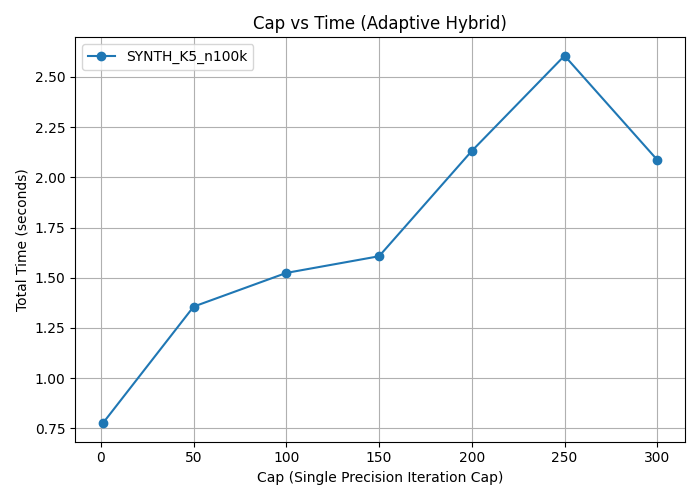
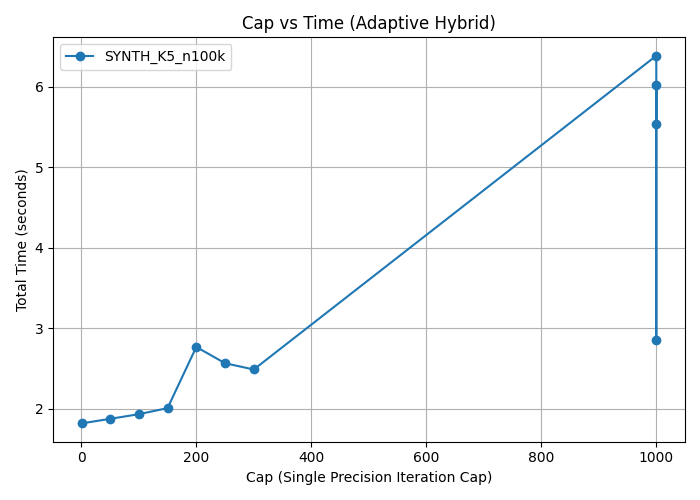
trying to decoupling the two experiments

diff --git a/example.py b/example.py
@@ -248,8 +248,8 @@ def run_adaptive_hybrid(X, initial_centers, n_clusters, max_iter_total, tol_sing
     
     return ( labels_final, centers_final, iters_single, iters_double,total_time, mem_MB_total, ari, dbi, inertia)
     
-def run_one_dataset(ds_name: str, X_full: np.ndarray, y_full):
-    rows = []
+def run_one_dataset(ds_name: str, X_full: np.ndarray, y_full, rows_A, rows_B):
+
     if ds_name.startswith("SYNTH"):
         sample_sizes = dataset_sizes
     else:
@@ -288,10 +288,10 @@ def run_one_dataset(ds_name: str, X_full: np.ndarray, y_full):
                     X_cur, initial_centers, n_clusters, max_iter, tol_fixed_A, y_true_cur
                     )
 
-                    rows.append([ds_name, n_samples, n_clusters, n_features, "A", 0, 1e-16,  iters_single_tot, iters_double_tot,"Double",  elapsed, mem_MB_double, 
+                    rows_A.append([ds_name, n_samples, n_clusters, n_features, "A", 0, 1e-16,  iters_single_tot, iters_double_tot,"Double",  elapsed, mem_MB_double, 
                                         ari,  dbi, inertia])
                                  
-                    print(f" [Double] {rows}", flush=True) 
+                    print(f" [Double] {rows_A}", flush=True) 
 
                 option = "A"
                 for cap in cap_grid:
@@ -304,10 +304,10 @@ def run_one_dataset(ds_name: str, X_full: np.ndarray, y_full):
                         
                         print(f"Cap: {cap}, Iter Single: {iters_single}, Iter Double: {iters_double}, Toal: {iters_single + iters_double}")
                     
-                        rows.append([ds_name, n_samples, n_clusters, n_features, "A", cap, tol_fixed_A, iters_single, iters_double, "AdaptiveHybrid", elapsed_hybrid, mem_MB_hybrid,
+                        rows_A.append([ds_name, n_samples, n_clusters, n_features, "A", cap, tol_fixed_A, iters_single, iters_double, "AdaptiveHybrid", elapsed_hybrid, mem_MB_hybrid,
                                         ari_hybrid, dbi_hybrid, inertia_hybrid ])
                         
-                        print(f" [Hybrid] {rows}", flush=True) 
+                        print(f" [Hybrid] {rows_A}", flush=True) 
                         # plot clusters
                         # if rep == 0:
                         #     X_vis, centers_vis = pca_2d_view(X_cur, centers_hybrid)
@@ -315,37 +315,34 @@ def run_one_dataset(ds_name: str, X_full: np.ndarray, y_full):
                         #     title = (f"{ds_name}: n={n_samples}, k={n_clusters}, "f"cap={cap}")
                         #     plot_clusters(X_vis, labels_hybrid, centers_vis, title=title, filename=filename)
                     
-                    
+
 
                     # Full double precision baseline for Experiment B
-                    for rep in range(n_repeats):
-                            centers_double, labels_double, iters_double_tot, iters_single_tot, elapsed, mem_MB_double, ari, dbi, inertia = run_full_double(
+                for rep in range(n_repeats):
+                        centers_double, labels_double, iters_double_tot, iters_single_tot, elapsed, mem_MB_double, ari, dbi, inertia = run_full_double(
                             X_cur, initial_centers, n_clusters, max_iter_B, tol_double_B, y_true_cur
                             )
 
-                        rows.append([ ds_name, n_samples, n_clusters, n_features, "B", 0, tol_double_B,  iters_single_tot, iters_double_tot, "Double", elapsed, mem_MB_double,
-                        ari, dbi, inertia])
+                        rows_B.append([ ds_name, n_samples, n_clusters, n_features, "B", 0, tol_double_B,  iters_single_tot, iters_double_tot, "Double", elapsed, mem_MB_double,
+                                        ari, dbi, inertia])
                         print(f"[Double Baseline - Exp B] tol={tol_double_B} | iter_double={iters_double_tot}")
 
-
-
-
-                    option = "B"
-                    for tol_s in tol_single_grid:
-                        for rep in range(n_repeats):
+                option = "B"
+                for tol_s in tol_single_grid:
+                    for rep in range(n_repeats):
            
                             # Adaptive hybrid run
                             labels_hybrid, centers_hybrid, iters_single, iters_double, elapsed_hybrid, mem_MB_hybrid, ari_hybrid, dbi_hybrid, inertia_hybrid = run_adaptive_hybrid(
-                                X_cur, initial_centers, n_clusters, max_iter_total=max_iter_B, tol_single = tol_s, tol_double = tol_double_B, y_true= y_true_cur, seed = rep
+                                X_cur, initial_centers, n_clusters, max_iter_total=max_iter_B, tol_single = tol_s, tol_double = tol_double_B, single_iter_cap=max_iter_B, y_true= y_true_cur, seed = rep
                             )
 
                             print(f"Tol_single: {tol_s}, Iter Single: {iters_single}, Iter Double: {iters_double}, Total: {iters_single + iters_double}")
                            
 
-                            rows.append([ds_name, n_samples, n_clusters, n_features, "B", tol_s,  iters_single, iters_double, "AdaptiveHybrid",elapsed_hybrid, mem_MB_hybrid,
+                            rows_B.append([ds_name, n_samples, n_clusters, n_features, "B", max_iter_B, tol_s,  iters_single, iters_double, "AdaptiveHybrid", elapsed_hybrid, mem_MB_hybrid,
                                         ari_hybrid, dbi_hybrid, inertia_hybrid])
                             
-                            print(f" [Hybrid] {rows}", flush=True) 
+                            print(f" [Hybrid] {rows_B}", flush=True) 
 
                             # plot clusters
                             # if rep == 0:
@@ -353,7 +350,7 @@ def run_one_dataset(ds_name: str, X_full: np.ndarray, y_full):
                                 # filename = (f"{ds_name}_n{n_samples}_k{n_clusters}_B_tol{tol_s:g}")
                                 # title = (f"{ds_name}: n={n_samples}, k={n_clusters},  tol={tol_s:g}")
                                 # plot_clusters(X_vis, labels_hybrid, centers_vis, title=title, filename=filename)
-    return rows
+    return rows_A, rows_B
 
 all_rows = []
 
@@ -362,13 +359,14 @@ synth_specs = [
     # ("SYNTH_K30_n100k", 100_000, 30, 30, 1),
 ]
 
-all_rows = []
+rows_A = []
+rows_B= []
 
 for tag, n, d, k, seed in synth_specs:
     X, y = generate_data(n, d, k, random_state=seed)
     print(f"[SYNTH] {tag:14s}  shape={X.shape}  any_NaN={np.isnan(X).any()}",
           flush=True)
-    all_rows += run_one_dataset(tag, X, y)
+    all_rows += run_one_dataset(tag, X, y, rows_A, rows_B)
 
 
 # real datasets
@@ -387,13 +385,13 @@ results_df = pd.DataFrame(all_rows, columns=columns)
 print("\n==== SUMMARY ====")
 print(results_df.groupby(['DatasetSize','NumClusters','NumFeatures','Mode', 'Cap', 'tolerance_single', 'iter_single', 'iter_double', 'Suite' ])[['Time','Memory_MB','ARI', 'DBI','Inertia']].mean())
 
-# Save results to CSV file
-results_df.to_csv(RESULTS_DIR / "hybrid_kmeans_results.csv", index=False)
-for tag in results_df.DatasetName.unique():
-    out_path = RESULTS_DIR / f"results_{tag}.csv"
-    results_df[results_df.DatasetName == tag].to_csv(out_path, index=False)
-print("CSVS written:", list(results_df.DatasetName.unique()))
 
+results_df.to_csv(RESULTS_DIR / "hybrid_kmeans_results.csv", index =False)
+results_df_A = results_df[results_df['Mode'] == 'A']
+results_df_B = results_df[results_df['Mode'] == 'B']
+
+results_df_A.to_csv(RESULTS_DIR / "hybrid_kmeans_results_expA.csv", index=False)
+results_df_B.to_csv(RESULTS_DIR / "hybrid_kmeans_results_expB.csv", index=False)
 
 plot_hybrid_cap_vs_inertia()
 plot_cap_vs_time()
